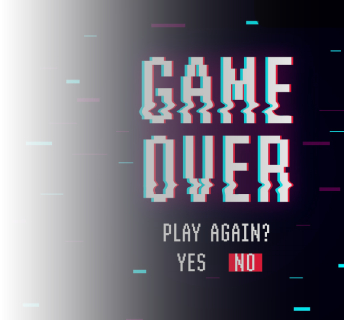
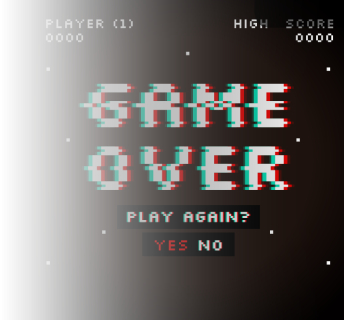
Updated lastplayed background and attributed to the creator in Readme

diff --git a/README.md b/README.md
@@ -35,8 +35,9 @@ By downloading and installing this theme it will be assumed that you own and pos
 ### Thanks and Credits
 * Chicuelo and c64-dev for the original theme.
 * ScreenScraper.
-* All original artwork belongs to the many artists who devoted their talents and time into making them. 
-* Most of them can be found on [ScreenScraper](https://www.screenscraper.fr/).
+* All original artwork belongs to the many artists who devoted their talents and time into making them.
+* Most of them can be found on [ScreenScraper](https://www.screenscraper.fr/)
+* Last Played Background Vector created by pikisuperstar at www.freepik.com
 
 ###### [back to top](https://github.com/MonsieurDaz/es-theme-351noir#351-noir-351elec-theme)
 
